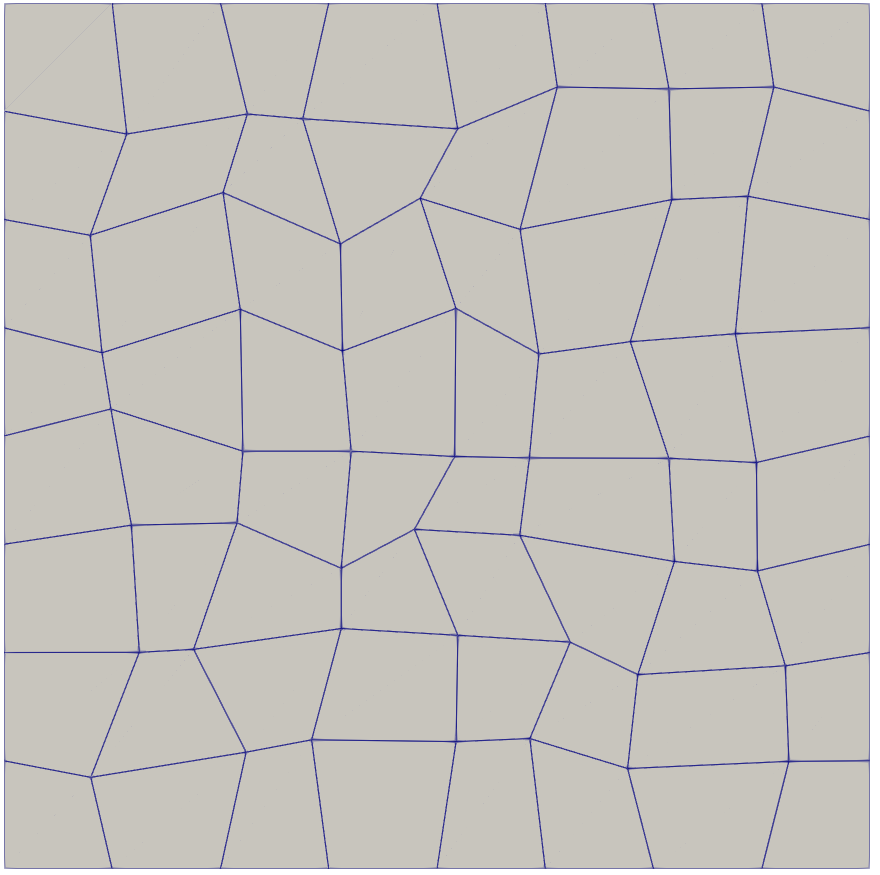
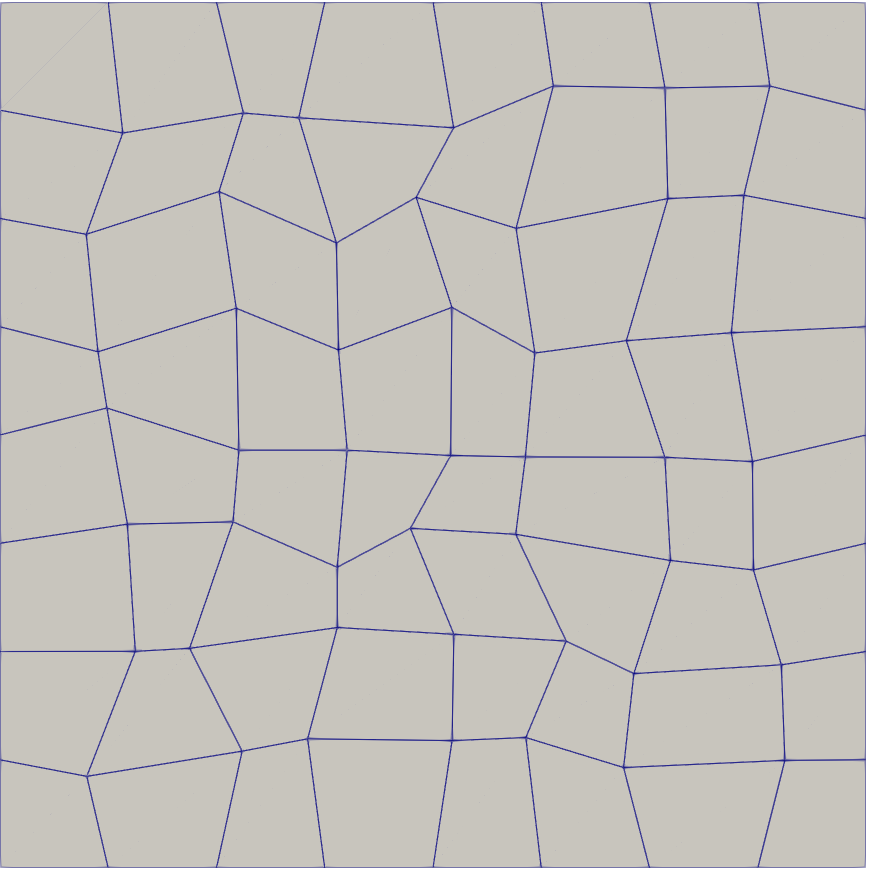
make gap between figures uniform

diff --git a/9.5/paper.tex b/9.5/paper.tex
@@ -697,7 +697,7 @@ presented in Figure~\ref{fig:nonnested}.
   \begin{subfigure}[b]{0.28\textwidth}
     \centering
     \includegraphics[width=\textwidth]{png/mesh_0.png}
-  \end{subfigure}\qquad
+  \end{subfigure}
   \hfill
   \begin{subfigure}[b]{0.28\textwidth}
     \centering
@@ -708,7 +708,7 @@ presented in Figure~\ref{fig:nonnested}.
     \centering
     \includegraphics[width=\textwidth]{png/mesh_2.png}
   \end{subfigure}
-  \caption{\it Example of non-nested multigrid levels.\todo[inline]{Make gap uniform!}}\label{fig:nonnested}
+  \caption{\it Example of non-nested multigrid levels.}\label{fig:nonnested}
 \end{figure}
 
 The current implementation extends the existing global-coarsening infrastructure by
